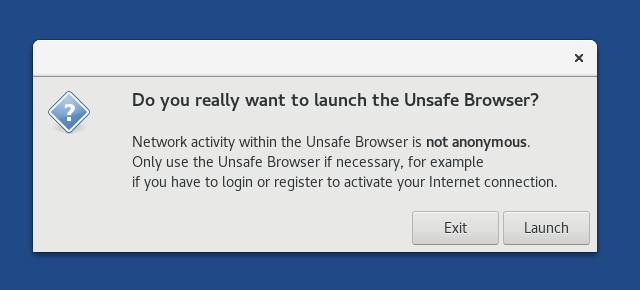
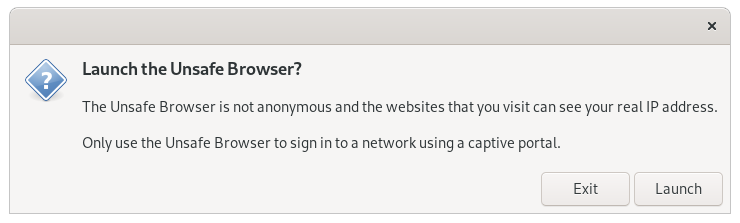
update screenshots to be current with Tails 5.0
Screens with only trivial changes since Tails 4.0 have not been
recaptured.

diff --git a/docs/firewall_pfsense.rst b/docs/firewall_pfsense.rst
@@ -128,7 +128,7 @@ Connect to the pfSense WebGUI
         the only option because Tails `intentionally disables LAN
         access`_ in the **Tor Browser**.
 
-#. A dialog will ask "Do you really want to launch the Unsafe
+#. A dialog will ask if you really want to "Launch the Unsafe
    Browser?". Click **Launch**.
 
    |You really want to launch the Unsafe Browser|
@@ -156,10 +156,10 @@ Connect to the pfSense WebGUI
       However, make sure not to configure your Tails device to have the same IP
       as the firewall (``192.168.1.1``).
 
-#. The firewall uses a self-signed certificate, so you will see a "This
-   Connection Is Untrusted" warning when you connect. This is expected.
-   You can safely continue by clicking **Advanced**, **Add
-   Exception...**, and **Confirm Security Exception**.
+#. The firewall uses a self-signed certificate, so you will see a "Potential
+   Security Risk Ahead" warning when you connect. This is expected.
+   You can safely continue by clicking **Advanced**, then **Accept
+   the Risk and Continue**.
 
    |Your Connection is Insecure|
 
@@ -776,7 +776,7 @@ to the next step: :doc:`setting up the servers. <servers>`
 .. |Firewall Update Progress| image:: images/firewall/system_is_updating.png
 .. |Firewall Update Complete| image:: images/firewall/system_update_complete.png
 
-.. [#] Tails screenshots were taken on Tails 4.0-rc1. Please make an issue on
+.. [#] Tails screenshots are current as of Tails 5.0. Please make an issue on
        GitHub if you are using the most recent version of Tails and the
        interface is different from what you see here.
 
